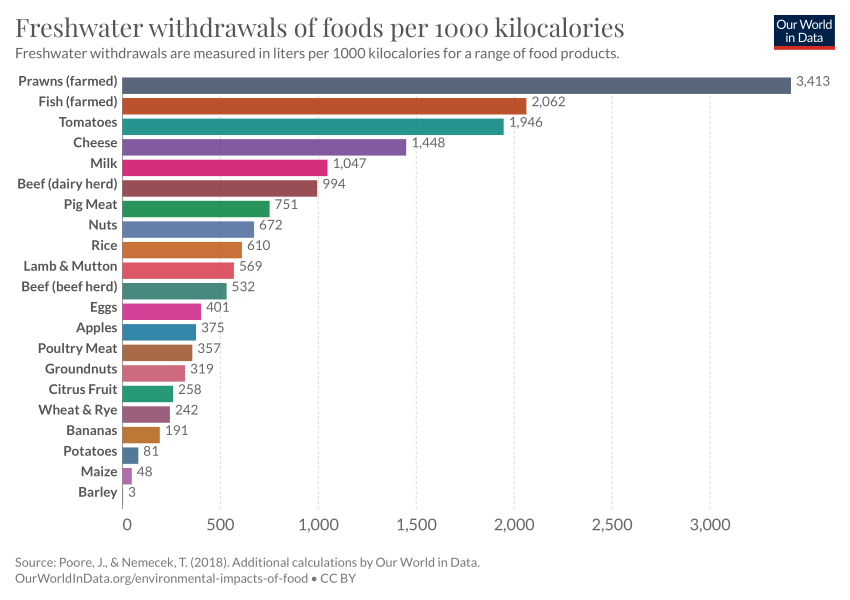
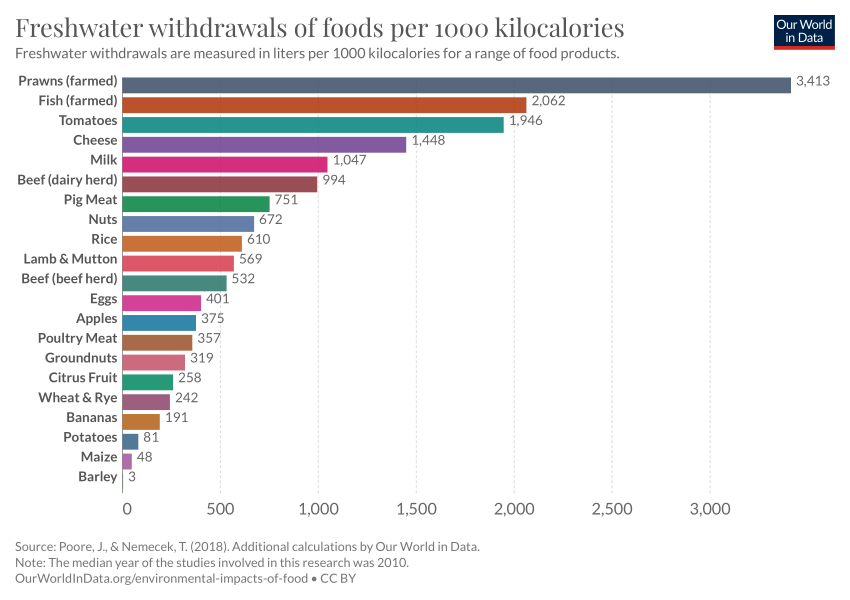
Deploy 2022-09-01T10:26:09.453Z Updating chart scarcity-water-use-kcals

diff --git a/co2-emissions.html b/co2-emissions.html
@@ -1,4 +1,4 @@
-<!doctype html><html><head><meta name="viewport" content="width=device-width, initial-scale=1"/><title>CO2 emissions - Our World in Data</title><meta name="description" content="How much CO2 does the world emit? Which countries emit the most?"/><link rel="canonical" href="https://ourworldindata.org/co2-emissions"/><link rel="alternate" type="application/atom+xml" href="/atom.xml"/><link rel="apple-touch-icon" sizes="180x180" href="/apple-touch-icon.png"/><meta property="fb:app_id" content="1149943818390250"/><meta property="og:url" content="https://ourworldindata.org/co2-emissions"/><meta property="og:title" content="CO2 emissions"/><meta property="og:description" content="How much CO2 does the world emit? Which countries emit the most?"/><meta property="og:image" content="https://ourworldindata.org/uploads/2022/03/Screenshot-2022-03-04-at-16.51.31-768x480.png"/><meta property="og:site_name" content="Our World in Data"/><meta name="twitter:card" content="summary_large_image"/><meta name="twitter:site" content="@OurWorldInData"/><meta name="twitter:creator" content="@OurWorldInData"/><meta name="twitter:title" content="CO2 emissions"/><meta name="twitter:description" content="How much CO2 does the world emit? Which countries emit the most?"/><meta name="twitter:image" content="https://ourworldindata.org/uploads/2022/03/Screenshot-2022-03-04-at-16.51.31-768x480.png"/><link href="https://fonts.googleapis.com/css?family=Lato:300,400,400i,700,700i|Playfair+Display:400,700&amp;display=swap" rel="stylesheet"/><link rel="stylesheet" href="https://ourworldindata.org/assets/commons.css"/><link rel="stylesheet" href="https://ourworldindata.org/assets/owid.css"/><meta name="citation_title" content="CO₂ and Greenhouse Gas Emissions"/><meta name="citation_fulltext_html_url" content="https://ourworldindata.org/co2-and-other-greenhouse-gas-emissions"/><meta name="citation_fulltext_world_readable" content=""/><meta name="citation_publication_date" content="2020/05/11"/><meta name="citation_journal_title" content="Our World in Data"/><meta name="citation_journal_abbrev" content="Our World in Data"/><meta name="citation_author" content="Hannah Ritchie"/><meta name="citation_author" content="Max Roser"/><meta name="citation_author" content="Pablo Rosado"/></head><body class=""><header class="site-header"><div class="wrapper site-navigation-bar"><div class="site-logo"><a href="/">Our World<br/> in Data</a></div><nav class="site-navigation"><div class="topics-button-wrapper"><a href="/#entries" class="topics-button"><div class="label">Articles <br/><strong>by topic</strong></div><div class="icon"><svg width="12" height="6"><path d="M0,0 L12,0 L6,6 Z" fill="currentColor"></path></svg></div></a></div><div><div class="site-primary-navigation"><form class="HeaderSearch" action="/search" method="GET"><input type="search" name="q" placeholder="Search..."/><div class="icon"><svg aria-hidden="true" focusable="false" data-prefix="fas" data-icon="magnifying-glass" class="svg-inline--fa fa-magnifying-glass " role="img" xmlns="http://www.w3.org/2000/svg" viewBox="0 0 512 512"><path fill="currentColor" d="M500.3 443.7l-119.7-119.7c27.22-40.41 40.65-90.9 33.46-144.7C401.8 87.79 326.8 13.32 235.2 1.723C99.01-15.51-15.51 99.01 1.724 235.2c11.6 91.64 86.08 166.7 177.6 178.9c53.8 7.189 104.3-6.236 144.7-33.46l119.7 119.7c15.62 15.62 40.95 15.62 56.57 0C515.9 484.7 515.9 459.3 500.3 443.7zM79.1 208c0-70.58 57.42-128 128-128s128 57.42 128 128c0 70.58-57.42 128-128 128S79.1 278.6 79.1 208z"></path></svg></div></form><ul class="site-primary-links"><li><a href="/blog" data-track-note="header-navigation">Latest</a></li><li><a href="/about" data-track-note="header-navigation">About</a></li><li><a href="/donate" data-track-note="header-navigation">Donate</a></li></ul></div><div class="site-secondary-navigation"><ul class="site-secondary-links"><li><a href="/charts" data-track-note="header-navigation">All charts</a></li><li><a href="https://sdg-tracker.org" data-track-note="header-navigation">Sustainable Development Goals Tracker</a></li></ul></div></div></nav><div class="header-logos-wrapper"><a href="https://www.oxfordmartin.ox.ac.uk/global-development" class="oxford-logo"><img src="https://ourworldindata.org/oms-logo.svg" alt="Oxford Martin School logo"/></a><a href="https://global-change-data-lab.org/" class="gcdl-logo"><img src="https://ourworldindata.org/gcdl-logo.svg" alt="Global Change Data Lab logo"/></a></div><div class="mobile-site-navigation"><button data-track-note="mobile-search-button"><svg aria-hidden="true" focusable="false" data-prefix="fas" data-icon="magnifying-glass" class="svg-inline--fa fa-magnifying-glass " role="img" xmlns="http://www.w3.org/2000/svg" viewBox="0 0 512 512"><path fill="currentColor" d="M500.3 443.7l-119.7-119.7c27.22-40.41 40.65-90.9 33.46-144.7C401.8 87.79 326.8 13.32 235.2 1.723C99.01-15.51-15.51 99.01 1.724 235.2c11.6 91.64 86.08 166.7 177.6 178.9c53.8 7.189 104.3-6.236 144.7-33.46l119.7 119.7c15.62 15.62 40.95 15.62 56.57 0C515.9 484.7 515.9 459.3 500.3 443.7zM79.1 208c0-70.58 57.42-128 128-128s128 57.42 128 128c0 70.58-57.42 128-128 128S79.1 278.6 79.1 208z"></path></svg></button><button data-track-note="mobile-newsletter-button"><svg aria-hidden="true" focusable="false" data-prefix="fas" data-icon="envelope-open-text" class="svg-inline--fa fa-envelope-open-text " role="img" xmlns="http://www.w3.org/2000/svg" viewBox="0 0 512 512"><path fill="currentColor" d="M256 417.1c-16.38 0-32.88-4.1-46.88-15.12L0 250.9v213.1C0 490.5 21.5 512 48 512h416c26.5 0 48-21.5 48-47.1V250.9l-209.1 151.1C288.9 412 272.4 417.1 256 417.1zM493.6 163C484.8 156 476.4 149.5 464 140.1v-44.12c0-26.5-21.5-48-48-48l-77.5 .0016c-3.125-2.25-5.875-4.25-9.125-6.5C312.6 29.13 279.3-.3732 256 .0018C232.8-.3732 199.4 29.13 182.6 41.5c-3.25 2.25-6 4.25-9.125 6.5L96 48c-26.5 0-48 21.5-48 48v44.12C35.63 149.5 27.25 156 18.38 163C6.75 172 0 186 0 200.8v10.62l96 69.37V96h320v184.7l96-69.37V200.8C512 186 505.3 172 493.6 163zM176 255.1h160c8.836 0 16-7.164 16-15.1c0-8.838-7.164-16-16-16h-160c-8.836 0-16 7.162-16 16C160 248.8 167.2 255.1 176 255.1zM176 191.1h160c8.836 0 16-7.164 16-16c0-8.838-7.164-15.1-16-15.1h-160c-8.836 0-16 7.162-16 15.1C160 184.8 167.2 191.1 176 191.1z"></path></svg></button><button data-track-note="mobile-hamburger-button"><svg aria-hidden="true" focusable="false" data-prefix="fas" data-icon="bars" class="svg-inline--fa fa-bars " role="img" xmlns="http://www.w3.org/2000/svg" viewBox="0 0 448 512"><path fill="currentColor" d="M0 96C0 78.33 14.33 64 32 64H416C433.7 64 448 78.33 448 96C448 113.7 433.7 128 416 128H32C14.33 128 0 113.7 0 96zM0 256C0 238.3 14.33 224 32 224H416C433.7 224 448 238.3 448 256C448 273.7 433.7 288 416 288H32C14.33 288 0 273.7 0 256zM416 448H32C14.33 448 0 433.7 0 416C0 398.3 14.33 384 32 384H416C433.7 384 448 398.3 448 416C448 433.7 433.7 448 416 448z"></path></svg></button></div></div></header><div class="alert-banner"><div class="content"><div class="text"><strong>COVID-19 vaccinations, cases, excess mortality, and much more</strong></div><a href="/coronavirus#explore-the-global-situation" data-track-note="covid-banner-click">Explore our COVID-19 data</a></div></div><main><article class="page with-sidebar large-banner"><div class="offset-header"><header class="article-header"><div class="article-titles"><h1 class="entry-title">CO2 emissions</h1><div class="breadcrumb"><a href="/">Home</a><span class="separator"><svg aria-hidden="true" focusable="false" data-prefix="fas" data-icon="angle-right" class="svg-inline--fa fa-angle-right " role="img" xmlns="http://www.w3.org/2000/svg" viewBox="0 0 256 512"><path fill="currentColor" d="M64 448c-8.188 0-16.38-3.125-22.62-9.375c-12.5-12.5-12.5-32.75 0-45.25L178.8 256L41.38 118.6c-12.5-12.5-12.5-32.75 0-45.25s32.75-12.5 45.25 0l160 160c12.5 12.5 12.5 32.75 0 45.25l-160 160C80.38 444.9 72.19 448 64 448z"></path></svg></span><a data-track-note="breadcrumb" href="/co2-and-other-greenhouse-gas-emissions">CO₂ and GHG Emissions</a><span class="separator"><svg aria-hidden="true" focusable="false" data-prefix="fas" data-icon="angle-right" class="svg-inline--fa fa-angle-right " role="img" xmlns="http://www.w3.org/2000/svg" viewBox="0 0 256 512"><path fill="currentColor" d="M64 448c-8.188 0-16.38-3.125-22.62-9.375c-12.5-12.5-12.5-32.75 0-45.25L178.8 256L41.38 118.6c-12.5-12.5-12.5-32.75 0-45.25s32.75-12.5 45.25 0l160 160c12.5 12.5 12.5 32.75 0 45.25l-160 160C80.38 444.9 72.19 448 64 448z"></path></svg></span><span>CO₂ emissions</span></div></div><div class="authors-byline"><a href="/team">by Hannah Ritchie and Max Roser</a></div><div class="tools"><a href="#licence"><svg aria-hidden="true" focusable="false" data-prefix="fab" data-icon="creative-commons" class="svg-inline--fa fa-creative-commons " role="img" xmlns="http://www.w3.org/2000/svg" viewBox="0 0 496 512"><path fill="currentColor" d="M245.8 214.9l-33.22 17.28c-9.43-19.58-25.24-19.93-27.46-19.93-22.13 0-33.22 14.61-33.22 43.84 0 23.57 9.21 43.84 33.22 43.84 14.47 0 24.65-7.09 30.57-21.26l30.55 15.5c-6.17 11.51-25.69 38.98-65.1 38.98-22.6 0-73.96-10.32-73.96-77.05 0-58.69 43-77.06 72.63-77.06 30.72-.01 52.7 11.95 65.99 35.86zm143.1 0l-32.78 17.28c-9.5-19.77-25.72-19.93-27.9-19.93-22.14 0-33.22 14.61-33.22 43.84 0 23.55 9.23 43.84 33.22 43.84 14.45 0 24.65-7.09 30.54-21.26l31 15.5c-2.1 3.75-21.39 38.98-65.09 38.98-22.69 0-73.96-9.87-73.96-77.05 0-58.67 42.97-77.06 72.63-77.06 30.71-.01 52.58 11.95 65.56 35.86zM247.6 8.05C104.7 8.05 0 123.1 0 256c0 138.5 113.6 248 247.6 248 129.9 0 248.4-100.9 248.4-248 0-137.9-106.6-248-248.4-248zm.87 450.8c-112.5 0-203.7-93.04-203.7-202.8 0-105.4 85.43-203.3 203.7-203.3 112.5 0 202.8 89.46 202.8 203.3-.01 121.7-99.68 202.8-202.8 202.8z"></path></svg>Reuse our work freely</a><a href="#citation"><svg aria-hidden="true" focusable="false" data-prefix="fas" data-icon="book" class="svg-inline--fa fa-book " role="img" xmlns="http://www.w3.org/2000/svg" viewBox="0 0 448 512"><path fill="currentColor" d="M448 336v-288C448 21.49 426.5 0 400 0H96C42.98 0 0 42.98 0 96v320c0 53.02 42.98 96 96 96h320c17.67 0 32-14.33 32-31.1c0-11.72-6.607-21.52-16-27.1v-81.36C441.8 362.8 448 350.2 448 336zM143.1 128h192C344.8 128 352 135.2 352 144C352 152.8 344.8 160 336 160H143.1C135.2 160 128 152.8 128 144C128 135.2 135.2 128 143.1 128zM143.1 192h192C344.8 192 352 199.2 352 208C352 216.8 344.8 224 336 224H143.1C135.2 224 128 216.8 128 208C128 199.2 135.2 192 143.1 192zM384 448H96c-17.67 0-32-14.33-32-32c0-17.67 14.33-32 32-32h288V448z"></path></svg>Cite this research</a></div></header></div><div class="offset-subnavigation"><div class="site-subnavigation"><div class="site-subnavigation-scroll"><ul class="site-subnavigation-links"><li class="highlight"><a href="/co2-and-other-greenhouse-gas-emissions" data-track-note="co2-subnav-co2-and-ghg-emissions">CO₂ and GHG Emissions<svg aria-hidden="true" focusable="false" data-prefix="fas" data-icon="chevron-left" class="svg-inline--fa fa-chevron-left " role="img" xmlns="http://www.w3.org/2000/svg" viewBox="0 0 320 512"><path fill="currentColor" d="M224 480c-8.188 0-16.38-3.125-22.62-9.375l-192-192c-12.5-12.5-12.5-32.75 0-45.25l192-192c12.5-12.5 32.75-12.5 45.25 0s12.5 32.75 0 45.25L77.25 256l169.4 169.4c12.5 12.5 12.5 32.75 0 45.25C240.4 476.9 232.2 480 224 480z"></path></svg></a></li><li class=""><a href="/co2-and-other-greenhouse-gas-emissions#co2-and-greenhouse-gas-emissions-country-profiles" data-track-note="co2-subnav-by-country">By country</a></li><li class=""><a href="/explorers/co2" data-track-note="co2-subnav-co2-data-explorer">Data explorer</a></li><li class="current"><a href="/co2-emissions" data-track-note="co2-subnav-co2-emissions">CO₂ emissions</a></li><li class=""><a href="/emissions-by-fuel" data-track-note="co2-subnav-by-fuel">CO₂ by fuel</a></li><li class=""><a href="/greenhouse-gas-emissions" data-track-note="co2-subnav-ghg-emissions">GHG emissions</a></li><li class=""><a href="/emissions-by-sector" data-track-note="co2-subnav-by-sector">By sector</a></li><li class=""><a href="/atmospheric-concentrations" data-track-note="co2-subnav-atm-concentrations">Atmospheric concentrations</a></li><li class=""><a href="/explorers/climate-change" data-track-note="co2-subnav-climate-impacts">Climate impacts</a></li></ul></div></div></div><div class="content-wrapper"><div class="toc-wrapper"><aside class="entry-sidebar"><div class="sticky-sentinel"></div><nav class="entry-toc"><ul><li><a href="#" data-track-note="toc-header">CO2 emissions</a></li><li class="section"><a href="#global-co2-emissions-from-fossil-fuels" data-track-note="toc-link">Global CO2 emissions from fossil fuels</a></li><li class="subsection"><a href="#global-co2-emissions-from-fossil-fuels-global-co2-emissions-from-fossil-fuels" data-track-note="toc-link">Global CO2 emissions from fossil fuels</a></li><li class="subsection"><a href="#global-co2-emissions-from-fossil-fuels-and-land-use-change" data-track-note="toc-link">Global CO2 emissions from fossil fuels and land use change</a></li><li class="subsection"><a href="#co2-emissions-by-region" data-track-note="toc-link">CO2 emissions by region</a></li><li class="section"><a href="#per-capita-co2-emissions" data-track-note="toc-link">Per capita CO2 emissions</a></li><li class="section"><a href="#annual-co2-emissions" data-track-note="toc-link">Annual CO2 emissions</a></li><li class="section"><a href="#annual-change-in-co2-emissions" data-track-note="toc-link">Annual change in CO2 emissions</a></li><li class="section"><a href="#cumulative-co2-emissions" data-track-note="toc-link">Cumulative CO2 emissions</a></li><li class="section"><a href="#consumption-based-trade-adjusted-emissions" data-track-note="toc-link">Consumption-based (trade-adjusted) emissions</a></li><li class="section"><a href="#decoupling-co2-emissions-from-economic-growth" data-track-note="toc-link">Decoupling CO₂ emissions from economic growth</a></li><li class="section"><a href="#global-inequalities-in-co2-emissions" data-track-note="toc-link">Global inequalities in CO2 emissions</a></li><li class="subsection"><a href="#global-inequalities-by-production" data-track-note="toc-link">Global inequalities by production</a></li><li class="subsection"><a href="#global-inequalities-by-consumption" data-track-note="toc-link">Global inequalities by consumption</a></li><li class="section"><a href="#how-do-we-measure-or-estimate-co2-emissions" data-track-note="toc-link">How do we measure or estimate CO2 emissions?</a></li><li class="section"><a href="#endnotes" data-track-note="toc-link">Endnotes</a></li><li class="section"><a href="#licence" data-track-note="toc-link">Licence</a></li><li class="section"><a href="#citation" data-track-note="toc-link">Citation</a></li></ul></nav><div class="toggle-toc"><button data-track-note="page-toggle-toc" aria-label="Open table of contents"><svg aria-hidden="true" focusable="false" data-prefix="fas" data-icon="bars" class="svg-inline--fa fa-bars " role="img" xmlns="http://www.w3.org/2000/svg" viewBox="0 0 448 512"><path fill="currentColor" d="M0 96C0 78.33 14.33 64 32 64H416C433.7 64 448 78.33 448 96C448 113.7 433.7 128 416 128H32C14.33 128 0 113.7 0 96zM0 256C0 238.3 14.33 224 32 224H416C433.7 224 448 238.3 448 256C448 273.7 433.7 288 416 288H32C14.33 288 0 273.7 0 256zM416 448H32C14.33 448 0 433.7 0 416C0 398.3 14.33 384 32 384H416C433.7 384 448 398.3 448 416C448 433.7 433.7 448 416 448z"></path></svg><span class="label">Contents</span></button></div></aside></div><div class="offset-content"><div class="content-and-footnotes"><div class="article-content"><section><div class="wp-block-columns is-style-sticky-right"><div class="wp-block-column"><p>You can&nbsp;<strong><a href="https://github.com/owid/co2-data">download</a></strong>&nbsp;our complete <em>Our World in Data</em> CO<sub>2</sub> and Greenhouse Gas Emissions database.</p><hr class="wp-block-separator"><p>Carbon dioxide emissions are the primary driver of global climate change. It’s widely recognised that to avoid the worst impacts of climate change, the world needs to urgently reduce emissions. But, how this responsibility is shared between regions, countries, and individuals has been an endless point of contention in international discussions. </p><p>This debate arises from the various ways in which emissions are compared: as annual emissions by country; emissions per person; historical contributions; and whether they adjust for traded goods and services. These metrics can tell very different stories. </p><p>We teamed up with the YouTube channel, <em>Kurzgesagt</em>, to produce a video which explored these different metrics in detail: <a href="https://www.youtube.com/watch?v=ipVxxxqwBQw">‘Who is responsible for climate change? – Who needs to fix it?’</a>. All of the data and research featured in this video is contained in this article: below we look in detail at the many ways emissions are broken down.</p><div class="wp-container-631082d375ab7 wp-block-group">    <div class="block-wrapper"><div class="wp-block-owid-prominent-link with-image" data-no-lightbox="true" data-style="is-style-thin" data-title="&nbsp;‘Who is responsible for climate change? – Who needs to fix it?’"><a href="https://www.youtube.com/watch?v=ipVxxxqwBQw"><figure><img width="768" height="433" src="https://ourworldindata.org/uploads/2020/06/CO2-Kurzgesagt-768x433.png" class="attachment-medium_large size-medium_large" alt="Co2 kurzgesagt" loading="lazy" srcset="https://ourworldindata.org/uploads/2020/06/CO2-Kurzgesagt-768x433.png 768w, https://ourworldindata.org/uploads/2020/06/CO2-Kurzgesagt-400x225.png 400w, https://ourworldindata.org/uploads/2020/06/CO2-Kurzgesagt-800x451.png 800w, https://ourworldindata.org/uploads/2020/06/CO2-Kurzgesagt-150x84.png 150w, https://ourworldindata.org/uploads/2020/06/CO2-Kurzgesagt.png 1422w" sizes="(max-width: 768px) 100vw, 768px" data-high-res-src="https://ourworldindata.org/uploads/2020/06/CO2-Kurzgesagt.png"></figure><div class="content-wrapper"><div class="content">
+<!doctype html><html><head><meta name="viewport" content="width=device-width, initial-scale=1"/><title>CO2 emissions - Our World in Data</title><meta name="description" content="How much CO2 does the world emit? Which countries emit the most?"/><link rel="canonical" href="https://ourworldindata.org/co2-emissions"/><link rel="alternate" type="application/atom+xml" href="/atom.xml"/><link rel="apple-touch-icon" sizes="180x180" href="/apple-touch-icon.png"/><meta property="fb:app_id" content="1149943818390250"/><meta property="og:url" content="https://ourworldindata.org/co2-emissions"/><meta property="og:title" content="CO2 emissions"/><meta property="og:description" content="How much CO2 does the world emit? Which countries emit the most?"/><meta property="og:image" content="https://ourworldindata.org/uploads/2022/03/Screenshot-2022-03-04-at-16.51.31-768x480.png"/><meta property="og:site_name" content="Our World in Data"/><meta name="twitter:card" content="summary_large_image"/><meta name="twitter:site" content="@OurWorldInData"/><meta name="twitter:creator" content="@OurWorldInData"/><meta name="twitter:title" content="CO2 emissions"/><meta name="twitter:description" content="How much CO2 does the world emit? Which countries emit the most?"/><meta name="twitter:image" content="https://ourworldindata.org/uploads/2022/03/Screenshot-2022-03-04-at-16.51.31-768x480.png"/><link href="https://fonts.googleapis.com/css?family=Lato:300,400,400i,700,700i|Playfair+Display:400,700&amp;display=swap" rel="stylesheet"/><link rel="stylesheet" href="https://ourworldindata.org/assets/commons.css"/><link rel="stylesheet" href="https://ourworldindata.org/assets/owid.css"/><meta name="citation_title" content="CO₂ and Greenhouse Gas Emissions"/><meta name="citation_fulltext_html_url" content="https://ourworldindata.org/co2-and-other-greenhouse-gas-emissions"/><meta name="citation_fulltext_world_readable" content=""/><meta name="citation_publication_date" content="2020/05/11"/><meta name="citation_journal_title" content="Our World in Data"/><meta name="citation_journal_abbrev" content="Our World in Data"/><meta name="citation_author" content="Hannah Ritchie"/><meta name="citation_author" content="Max Roser"/><meta name="citation_author" content="Pablo Rosado"/></head><body class=""><header class="site-header"><div class="wrapper site-navigation-bar"><div class="site-logo"><a href="/">Our World<br/> in Data</a></div><nav class="site-navigation"><div class="topics-button-wrapper"><a href="/#entries" class="topics-button"><div class="label">Articles <br/><strong>by topic</strong></div><div class="icon"><svg width="12" height="6"><path d="M0,0 L12,0 L6,6 Z" fill="currentColor"></path></svg></div></a></div><div><div class="site-primary-navigation"><form class="HeaderSearch" action="/search" method="GET"><input type="search" name="q" placeholder="Search..."/><div class="icon"><svg aria-hidden="true" focusable="false" data-prefix="fas" data-icon="magnifying-glass" class="svg-inline--fa fa-magnifying-glass " role="img" xmlns="http://www.w3.org/2000/svg" viewBox="0 0 512 512"><path fill="currentColor" d="M500.3 443.7l-119.7-119.7c27.22-40.41 40.65-90.9 33.46-144.7C401.8 87.79 326.8 13.32 235.2 1.723C99.01-15.51-15.51 99.01 1.724 235.2c11.6 91.64 86.08 166.7 177.6 178.9c53.8 7.189 104.3-6.236 144.7-33.46l119.7 119.7c15.62 15.62 40.95 15.62 56.57 0C515.9 484.7 515.9 459.3 500.3 443.7zM79.1 208c0-70.58 57.42-128 128-128s128 57.42 128 128c0 70.58-57.42 128-128 128S79.1 278.6 79.1 208z"></path></svg></div></form><ul class="site-primary-links"><li><a href="/blog" data-track-note="header-navigation">Latest</a></li><li><a href="/about" data-track-note="header-navigation">About</a></li><li><a href="/donate" data-track-note="header-navigation">Donate</a></li></ul></div><div class="site-secondary-navigation"><ul class="site-secondary-links"><li><a href="/charts" data-track-note="header-navigation">All charts</a></li><li><a href="https://sdg-tracker.org" data-track-note="header-navigation">Sustainable Development Goals Tracker</a></li></ul></div></div></nav><div class="header-logos-wrapper"><a href="https://www.oxfordmartin.ox.ac.uk/global-development" class="oxford-logo"><img src="https://ourworldindata.org/oms-logo.svg" alt="Oxford Martin School logo"/></a><a href="https://global-change-data-lab.org/" class="gcdl-logo"><img src="https://ourworldindata.org/gcdl-logo.svg" alt="Global Change Data Lab logo"/></a></div><div class="mobile-site-navigation"><button data-track-note="mobile-search-button"><svg aria-hidden="true" focusable="false" data-prefix="fas" data-icon="magnifying-glass" class="svg-inline--fa fa-magnifying-glass " role="img" xmlns="http://www.w3.org/2000/svg" viewBox="0 0 512 512"><path fill="currentColor" d="M500.3 443.7l-119.7-119.7c27.22-40.41 40.65-90.9 33.46-144.7C401.8 87.79 326.8 13.32 235.2 1.723C99.01-15.51-15.51 99.01 1.724 235.2c11.6 91.64 86.08 166.7 177.6 178.9c53.8 7.189 104.3-6.236 144.7-33.46l119.7 119.7c15.62 15.62 40.95 15.62 56.57 0C515.9 484.7 515.9 459.3 500.3 443.7zM79.1 208c0-70.58 57.42-128 128-128s128 57.42 128 128c0 70.58-57.42 128-128 128S79.1 278.6 79.1 208z"></path></svg></button><button data-track-note="mobile-newsletter-button"><svg aria-hidden="true" focusable="false" data-prefix="fas" data-icon="envelope-open-text" class="svg-inline--fa fa-envelope-open-text " role="img" xmlns="http://www.w3.org/2000/svg" viewBox="0 0 512 512"><path fill="currentColor" d="M256 417.1c-16.38 0-32.88-4.1-46.88-15.12L0 250.9v213.1C0 490.5 21.5 512 48 512h416c26.5 0 48-21.5 48-47.1V250.9l-209.1 151.1C288.9 412 272.4 417.1 256 417.1zM493.6 163C484.8 156 476.4 149.5 464 140.1v-44.12c0-26.5-21.5-48-48-48l-77.5 .0016c-3.125-2.25-5.875-4.25-9.125-6.5C312.6 29.13 279.3-.3732 256 .0018C232.8-.3732 199.4 29.13 182.6 41.5c-3.25 2.25-6 4.25-9.125 6.5L96 48c-26.5 0-48 21.5-48 48v44.12C35.63 149.5 27.25 156 18.38 163C6.75 172 0 186 0 200.8v10.62l96 69.37V96h320v184.7l96-69.37V200.8C512 186 505.3 172 493.6 163zM176 255.1h160c8.836 0 16-7.164 16-15.1c0-8.838-7.164-16-16-16h-160c-8.836 0-16 7.162-16 16C160 248.8 167.2 255.1 176 255.1zM176 191.1h160c8.836 0 16-7.164 16-16c0-8.838-7.164-15.1-16-15.1h-160c-8.836 0-16 7.162-16 15.1C160 184.8 167.2 191.1 176 191.1z"></path></svg></button><button data-track-note="mobile-hamburger-button"><svg aria-hidden="true" focusable="false" data-prefix="fas" data-icon="bars" class="svg-inline--fa fa-bars " role="img" xmlns="http://www.w3.org/2000/svg" viewBox="0 0 448 512"><path fill="currentColor" d="M0 96C0 78.33 14.33 64 32 64H416C433.7 64 448 78.33 448 96C448 113.7 433.7 128 416 128H32C14.33 128 0 113.7 0 96zM0 256C0 238.3 14.33 224 32 224H416C433.7 224 448 238.3 448 256C448 273.7 433.7 288 416 288H32C14.33 288 0 273.7 0 256zM416 448H32C14.33 448 0 433.7 0 416C0 398.3 14.33 384 32 384H416C433.7 384 448 398.3 448 416C448 433.7 433.7 448 416 448z"></path></svg></button></div></div></header><div class="alert-banner"><div class="content"><div class="text"><strong>COVID-19 vaccinations, cases, excess mortality, and much more</strong></div><a href="/coronavirus#explore-the-global-situation" data-track-note="covid-banner-click">Explore our COVID-19 data</a></div></div><main><article class="page with-sidebar large-banner"><div class="offset-header"><header class="article-header"><div class="article-titles"><h1 class="entry-title">CO2 emissions</h1><div class="breadcrumb"><a href="/">Home</a><span class="separator"><svg aria-hidden="true" focusable="false" data-prefix="fas" data-icon="angle-right" class="svg-inline--fa fa-angle-right " role="img" xmlns="http://www.w3.org/2000/svg" viewBox="0 0 256 512"><path fill="currentColor" d="M64 448c-8.188 0-16.38-3.125-22.62-9.375c-12.5-12.5-12.5-32.75 0-45.25L178.8 256L41.38 118.6c-12.5-12.5-12.5-32.75 0-45.25s32.75-12.5 45.25 0l160 160c12.5 12.5 12.5 32.75 0 45.25l-160 160C80.38 444.9 72.19 448 64 448z"></path></svg></span><a data-track-note="breadcrumb" href="/co2-and-other-greenhouse-gas-emissions">CO₂ and GHG Emissions</a><span class="separator"><svg aria-hidden="true" focusable="false" data-prefix="fas" data-icon="angle-right" class="svg-inline--fa fa-angle-right " role="img" xmlns="http://www.w3.org/2000/svg" viewBox="0 0 256 512"><path fill="currentColor" d="M64 448c-8.188 0-16.38-3.125-22.62-9.375c-12.5-12.5-12.5-32.75 0-45.25L178.8 256L41.38 118.6c-12.5-12.5-12.5-32.75 0-45.25s32.75-12.5 45.25 0l160 160c12.5 12.5 12.5 32.75 0 45.25l-160 160C80.38 444.9 72.19 448 64 448z"></path></svg></span><span>CO₂ emissions</span></div></div><div class="authors-byline"><a href="/team">by Hannah Ritchie and Max Roser</a></div><div class="tools"><a href="#licence"><svg aria-hidden="true" focusable="false" data-prefix="fab" data-icon="creative-commons" class="svg-inline--fa fa-creative-commons " role="img" xmlns="http://www.w3.org/2000/svg" viewBox="0 0 496 512"><path fill="currentColor" d="M245.8 214.9l-33.22 17.28c-9.43-19.58-25.24-19.93-27.46-19.93-22.13 0-33.22 14.61-33.22 43.84 0 23.57 9.21 43.84 33.22 43.84 14.47 0 24.65-7.09 30.57-21.26l30.55 15.5c-6.17 11.51-25.69 38.98-65.1 38.98-22.6 0-73.96-10.32-73.96-77.05 0-58.69 43-77.06 72.63-77.06 30.72-.01 52.7 11.95 65.99 35.86zm143.1 0l-32.78 17.28c-9.5-19.77-25.72-19.93-27.9-19.93-22.14 0-33.22 14.61-33.22 43.84 0 23.55 9.23 43.84 33.22 43.84 14.45 0 24.65-7.09 30.54-21.26l31 15.5c-2.1 3.75-21.39 38.98-65.09 38.98-22.69 0-73.96-9.87-73.96-77.05 0-58.67 42.97-77.06 72.63-77.06 30.71-.01 52.58 11.95 65.56 35.86zM247.6 8.05C104.7 8.05 0 123.1 0 256c0 138.5 113.6 248 247.6 248 129.9 0 248.4-100.9 248.4-248 0-137.9-106.6-248-248.4-248zm.87 450.8c-112.5 0-203.7-93.04-203.7-202.8 0-105.4 85.43-203.3 203.7-203.3 112.5 0 202.8 89.46 202.8 203.3-.01 121.7-99.68 202.8-202.8 202.8z"></path></svg>Reuse our work freely</a><a href="#citation"><svg aria-hidden="true" focusable="false" data-prefix="fas" data-icon="book" class="svg-inline--fa fa-book " role="img" xmlns="http://www.w3.org/2000/svg" viewBox="0 0 448 512"><path fill="currentColor" d="M448 336v-288C448 21.49 426.5 0 400 0H96C42.98 0 0 42.98 0 96v320c0 53.02 42.98 96 96 96h320c17.67 0 32-14.33 32-31.1c0-11.72-6.607-21.52-16-27.1v-81.36C441.8 362.8 448 350.2 448 336zM143.1 128h192C344.8 128 352 135.2 352 144C352 152.8 344.8 160 336 160H143.1C135.2 160 128 152.8 128 144C128 135.2 135.2 128 143.1 128zM143.1 192h192C344.8 192 352 199.2 352 208C352 216.8 344.8 224 336 224H143.1C135.2 224 128 216.8 128 208C128 199.2 135.2 192 143.1 192zM384 448H96c-17.67 0-32-14.33-32-32c0-17.67 14.33-32 32-32h288V448z"></path></svg>Cite this research</a></div></header></div><div class="offset-subnavigation"><div class="site-subnavigation"><div class="site-subnavigation-scroll"><ul class="site-subnavigation-links"><li class="highlight"><a href="/co2-and-other-greenhouse-gas-emissions" data-track-note="co2-subnav-co2-and-ghg-emissions">CO₂ and GHG Emissions<svg aria-hidden="true" focusable="false" data-prefix="fas" data-icon="chevron-left" class="svg-inline--fa fa-chevron-left " role="img" xmlns="http://www.w3.org/2000/svg" viewBox="0 0 320 512"><path fill="currentColor" d="M224 480c-8.188 0-16.38-3.125-22.62-9.375l-192-192c-12.5-12.5-12.5-32.75 0-45.25l192-192c12.5-12.5 32.75-12.5 45.25 0s12.5 32.75 0 45.25L77.25 256l169.4 169.4c12.5 12.5 12.5 32.75 0 45.25C240.4 476.9 232.2 480 224 480z"></path></svg></a></li><li class=""><a href="/co2-and-other-greenhouse-gas-emissions#co2-and-greenhouse-gas-emissions-country-profiles" data-track-note="co2-subnav-by-country">By country</a></li><li class=""><a href="/explorers/co2" data-track-note="co2-subnav-co2-data-explorer">Data explorer</a></li><li class="current"><a href="/co2-emissions" data-track-note="co2-subnav-co2-emissions">CO₂ emissions</a></li><li class=""><a href="/emissions-by-fuel" data-track-note="co2-subnav-by-fuel">CO₂ by fuel</a></li><li class=""><a href="/greenhouse-gas-emissions" data-track-note="co2-subnav-ghg-emissions">GHG emissions</a></li><li class=""><a href="/emissions-by-sector" data-track-note="co2-subnav-by-sector">By sector</a></li><li class=""><a href="/atmospheric-concentrations" data-track-note="co2-subnav-atm-concentrations">Atmospheric concentrations</a></li><li class=""><a href="/explorers/climate-change" data-track-note="co2-subnav-climate-impacts">Climate impacts</a></li></ul></div></div></div><div class="content-wrapper"><div class="toc-wrapper"><aside class="entry-sidebar"><div class="sticky-sentinel"></div><nav class="entry-toc"><ul><li><a href="#" data-track-note="toc-header">CO2 emissions</a></li><li class="section"><a href="#global-co2-emissions-from-fossil-fuels" data-track-note="toc-link">Global CO2 emissions from fossil fuels</a></li><li class="subsection"><a href="#global-co2-emissions-from-fossil-fuels-global-co2-emissions-from-fossil-fuels" data-track-note="toc-link">Global CO2 emissions from fossil fuels</a></li><li class="subsection"><a href="#global-co2-emissions-from-fossil-fuels-and-land-use-change" data-track-note="toc-link">Global CO2 emissions from fossil fuels and land use change</a></li><li class="subsection"><a href="#co2-emissions-by-region" data-track-note="toc-link">CO2 emissions by region</a></li><li class="section"><a href="#per-capita-co2-emissions" data-track-note="toc-link">Per capita CO2 emissions</a></li><li class="section"><a href="#annual-co2-emissions" data-track-note="toc-link">Annual CO2 emissions</a></li><li class="section"><a href="#annual-change-in-co2-emissions" data-track-note="toc-link">Annual change in CO2 emissions</a></li><li class="section"><a href="#cumulative-co2-emissions" data-track-note="toc-link">Cumulative CO2 emissions</a></li><li class="section"><a href="#consumption-based-trade-adjusted-emissions" data-track-note="toc-link">Consumption-based (trade-adjusted) emissions</a></li><li class="section"><a href="#decoupling-co2-emissions-from-economic-growth" data-track-note="toc-link">Decoupling CO₂ emissions from economic growth</a></li><li class="section"><a href="#global-inequalities-in-co2-emissions" data-track-note="toc-link">Global inequalities in CO2 emissions</a></li><li class="subsection"><a href="#global-inequalities-by-production" data-track-note="toc-link">Global inequalities by production</a></li><li class="subsection"><a href="#global-inequalities-by-consumption" data-track-note="toc-link">Global inequalities by consumption</a></li><li class="section"><a href="#how-do-we-measure-or-estimate-co2-emissions" data-track-note="toc-link">How do we measure or estimate CO2 emissions?</a></li><li class="section"><a href="#endnotes" data-track-note="toc-link">Endnotes</a></li><li class="section"><a href="#licence" data-track-note="toc-link">Licence</a></li><li class="section"><a href="#citation" data-track-note="toc-link">Citation</a></li></ul></nav><div class="toggle-toc"><button data-track-note="page-toggle-toc" aria-label="Open table of contents"><svg aria-hidden="true" focusable="false" data-prefix="fas" data-icon="bars" class="svg-inline--fa fa-bars " role="img" xmlns="http://www.w3.org/2000/svg" viewBox="0 0 448 512"><path fill="currentColor" d="M0 96C0 78.33 14.33 64 32 64H416C433.7 64 448 78.33 448 96C448 113.7 433.7 128 416 128H32C14.33 128 0 113.7 0 96zM0 256C0 238.3 14.33 224 32 224H416C433.7 224 448 238.3 448 256C448 273.7 433.7 288 416 288H32C14.33 288 0 273.7 0 256zM416 448H32C14.33 448 0 433.7 0 416C0 398.3 14.33 384 32 384H416C433.7 384 448 398.3 448 416C448 433.7 433.7 448 416 448z"></path></svg><span class="label">Contents</span></button></div></aside></div><div class="offset-content"><div class="content-and-footnotes"><div class="article-content"><section><div class="wp-block-columns is-style-sticky-right"><div class="wp-block-column"><p>You can&nbsp;<strong><a href="https://github.com/owid/co2-data">download</a></strong>&nbsp;our complete <em>Our World in Data</em> CO<sub>2</sub> and Greenhouse Gas Emissions database.</p><hr class="wp-block-separator"><p>Carbon dioxide emissions are the primary driver of global climate change. It’s widely recognised that to avoid the worst impacts of climate change, the world needs to urgently reduce emissions. But, how this responsibility is shared between regions, countries, and individuals has been an endless point of contention in international discussions. </p><p>This debate arises from the various ways in which emissions are compared: as annual emissions by country; emissions per person; historical contributions; and whether they adjust for traded goods and services. These metrics can tell very different stories. </p><p>We teamed up with the YouTube channel, <em>Kurzgesagt</em>, to produce a video which explored these different metrics in detail: <a href="https://www.youtube.com/watch?v=ipVxxxqwBQw">‘Who is responsible for climate change? – Who needs to fix it?’</a>. All of the data and research featured in this video is contained in this article: below we look in detail at the many ways emissions are broken down.</p><div class="wp-container-631088e2b4d77 wp-block-group">    <div class="block-wrapper"><div class="wp-block-owid-prominent-link with-image" data-no-lightbox="true" data-style="is-style-thin" data-title="&nbsp;‘Who is responsible for climate change? – Who needs to fix it?’"><a href="https://www.youtube.com/watch?v=ipVxxxqwBQw"><figure><img width="768" height="433" src="https://ourworldindata.org/uploads/2020/06/CO2-Kurzgesagt-768x433.png" class="attachment-medium_large size-medium_large" alt="Co2 kurzgesagt" loading="lazy" srcset="https://ourworldindata.org/uploads/2020/06/CO2-Kurzgesagt-768x433.png 768w, https://ourworldindata.org/uploads/2020/06/CO2-Kurzgesagt-400x225.png 400w, https://ourworldindata.org/uploads/2020/06/CO2-Kurzgesagt-800x451.png 800w, https://ourworldindata.org/uploads/2020/06/CO2-Kurzgesagt-150x84.png 150w, https://ourworldindata.org/uploads/2020/06/CO2-Kurzgesagt.png 1422w" sizes="(max-width: 768px) 100vw, 768px" data-high-res-src="https://ourworldindata.org/uploads/2020/06/CO2-Kurzgesagt.png"></figure><div class="content-wrapper"><div class="content">
 
 <p>We teamed up with YouTube channel <em>Kurzgesagt</em> to make a video on comparisons of CO<sub>2</sub> emissions.</p>
 

diff --git a/energy-archive.html b/energy-archive.html
@@ -200,7 +200,7 @@
 
 
 
-<div class="wp-container-631082d1e4cd8 wp-block-group"><div class="wp-block-group__inner-container">
+<div class="wp-container-631088e149c41 wp-block-group"><div class="wp-block-group__inner-container">
 <ul class="covid-country-tiles"><li><a href="https://ourworldindata.org/energy/country/united-states?country=~USA">United States</a></li><li><a href="https://ourworldindata.org/energy/country/united-kingdom?country=~GBR">United Kingdom</a></li><li><a href="https://ourworldindata.org/energy/country/china?country=~CHN">China</a></li><li><a href="https://ourworldindata.org/energy/country/india?country=~IND">India</a></li><li><a href="https://ourworldindata.org/energy/country/brazil?country=~BRA">Brazil</a></li><li><a href="https://ourworldindata.org/energy/country/south-africa?country=~ZAF">South Africa</a></li><li><a href="https://ourworldindata.org/energy/country/germany?country=~DEU">Germany</a></li><li><a href="https://ourworldindata.org/energy/country/spain?country=~ESP">Spain</a></li><li><a href="https://ourworldindata.org/energy/country/france?country=~FRA">France</a></li><li><a href="https://ourworldindata.org/energy/country/canada?country=~CAN">Canada</a></li><li><a href="https://ourworldindata.org/energy/country/australia?country=~AUS">Australia</a></li><li><a href="https://ourworldindata.org/energy/country/sweden?country=~SWE">Sweden</a></li></ul>
 </div></div>
 </div>

diff --git a/environmental-impacts-of-food.html b/environmental-impacts-of-food.html
@@ -857,7 +857,7 @@
 
                 <figure data-grapher-src="https://ourworldindata.org/grapher/scarcity-water-use-kcals" class="grapherPreview">
                     <a href="https://ourworldindata.org/grapher/scarcity-water-use-kcals" target="_blank">
-                        <div><img src="https://ourworldindata.org/exports/scarcity-water-use-kcals_v8_850x600.svg" width="850" height="600" loading="lazy" data-no-lightbox="" alt="Scarcity water use kcals v8 850x600"></div>
+                        <div><img src="https://ourworldindata.org/exports/scarcity-water-use-kcals_v9_850x600.svg" width="850" height="600" loading="lazy" data-no-lightbox="" alt="Scarcity water use kcals v9 850x600"></div>
                         <div class="interactionNotice">
                             <span class="icon"><svg aria-hidden="true" focusable="false" data-prefix="fas" data-icon="hand-pointer" class="svg-inline--fa fa-hand-pointer fa-w-14" role="img" xmlns="http://www.w3.org/2000/svg" viewBox="0 0 448 617">
     <path fill="currentColor" d="M448,344.59v96a40.36,40.36,0,0,1-1.06,9.16l-32,136A40,40,0,0,1,376,616.59H168a40,40,0,0,1-32.35-16.47l-128-176a40,40,0,0,1,64.7-47.06L104,420.58v-276a40,40,0,0,1,80,0v200h8v-40a40,40,0,1,1,80,0v40h8v-24a40,40,0,1,1,80,0v24h8a40,40,0,1,1,80,0Zm-256,80h-8v96h8Zm88,0h-8v96h8Zm88,0h-8v96h8Z" transform="translate(0 -0.41)"></path>

diff --git a/explorers/food-footprints.html b/explorers/food-footprints.html
@@ -977,11 +977,12 @@ const grapherConfigs =
   {
     "type": "DiscreteBar",
     "id": 3950,
-    "version": 8,
+    "version": 9,
     "slug": "freshwater-withdrawals-per-1000kcal",
     "title": "Freshwater withdrawals of foods per 1000 kilocalories",
     "subtitle": "Freshwater withdrawals are measured in liters per 1000 kilocalories for a range of food products.",
     "sourceDesc": "Poore, J., & Nemecek, T. (2018). Additional calculations by Our World in Data.",
+    "note": "The median year of the studies involved in this research was 2010.",
     "hideTitleAnnotation": true,
     "minTime": 2018,
     "maxTime": 2018,
@@ -1070,11 +1071,12 @@ const grapherConfigs =
   {
     "type": "DiscreteBar",
     "id": 3951,
-    "version": 8,
+    "version": 9,
     "slug": "scarcity-water-use-kcals",
     "title": "Scarcity-weighted water use of foods per 1000 kilocalories",
     "subtitle": "Scarcity-weighted water use represents freshwater use weighted by local water scarcity. This is measured in liters per 1000 kilocalories.",
     "sourceDesc": "Poore, J., & Nemecek, T. (2018). Additional calculations by Our World in Data.",
+    "note": "The median year of the studies involved in this research was 2010.",
     "hideTitleAnnotation": true,
     "minTime": 2018,
     "maxTime": 2018,

diff --git a/co2-and-other-greenhouse-gas-emissions.html b/co2-and-other-greenhouse-gas-emissions.html
@@ -22,7 +22,7 @@
 
 
 
-<div class="wp-container-631082d3881cf wp-block-group">
+<div class="wp-container-631088e2c73d0 wp-block-group">
 <ul class="covid-country-tiles"><li><a href="https://ourworldindata.org/co2/country/united-states?country=~USA">United States</a></li><li><a href="https://ourworldindata.org/co2/country/united-kingdom?country=~GBR">United Kingdom</a></li><li><a href="https://ourworldindata.org/co2/country/china?country=~CHN">China</a></li><li><a href="https://ourworldindata.org/co2/country/india?country=~IND">India</a></li><li><a href="https://ourworldindata.org/co2/country/brazil?country=~BRA">Brazil</a></li><li><a href="https://ourworldindata.org/co2/country/south-africa?country=~ZAF">South Africa</a></li><li><a href="https://ourworldindata.org/co2/country/germany?country=~DEU">Germany</a></li><li><a href="https://ourworldindata.org/co2/country/spain?country=~ESP">Spain</a></li><li><a href="https://ourworldindata.org/co2/country/france?country=~FRA">France</a></li><li><a href="https://ourworldindata.org/co2/country/canada?country=~CAN">Canada</a></li><li><a href="https://ourworldindata.org/co2/country/australia?country=~AUS">Australia</a></li><li><a href="https://ourworldindata.org/co2/country/sweden?country=~SWE">Sweden</a></li></ul>
 </div>
 </div>

diff --git a/grapher/scarcity-water-use-kcals.html b/grapher/scarcity-water-use-kcals.html
@@ -11,17 +11,16 @@
   },
   "data": {
     "availableEntities": [
-      "Brassicas",
+      "Berries & Grapes",
       "Oatmeal",
       "Beet Sugar",
       "Groundnuts",
-      "Tofu (soybeans)",
       "Sunflower Oil",
       "Rapeseed Oil",
       "Onions & Leeks",
       "Root Vegetables",
+      "Brassicas",
       "Barley",
-      "Berries & Grapes",
       "Dark Chocolate",
       "Beef (beef herd)",
       "Beef (dairy herd)",
@@ -29,6 +28,7 @@
       "Poultry Meat",
       "Fish (farmed)",
       "Prawns (farmed)",
+      "Tofu",
       "Palm Oil",
       "Citrus Fruit",
       "Eggs",
@@ -48,6 +48,7 @@
       "Wheat & Rye"
     ]
   },
+  "note": "The median year of the studies involved in this research was 2010.",
   "slug": "scarcity-water-use-kcals",
   "type": "DiscreteBar",
   "title": "Scarcity-weighted water use of foods per 1000 kilocalories",
@@ -56,7 +57,7 @@
   },
   "maxTime": 2018,
   "minTime": 2018,
-  "version": 8,
+  "version": 9,
   "subtitle": "Scarcity-weighted water use represents freshwater use weighted by local water scarcity. This is measured in liters per 1000 kilocalories.",
   "originUrl": "https://ourworldindata.org/environmental-impacts-of-food",
   "dimensions": [

diff --git a/grapher/freshwater-withdrawals-per-1000kcal.html b/grapher/freshwater-withdrawals-per-1000kcal.html
@@ -11,17 +11,16 @@
   },
   "data": {
     "availableEntities": [
-      "Brassicas",
+      "Berries & Grapes",
       "Oatmeal",
       "Beet Sugar",
       "Groundnuts",
-      "Tofu (soybeans)",
       "Sunflower Oil",
       "Rapeseed Oil",
       "Onions & Leeks",
       "Root Vegetables",
+      "Brassicas",
       "Barley",
-      "Berries & Grapes",
       "Dark Chocolate",
       "Beef (beef herd)",
       "Beef (dairy herd)",
@@ -29,6 +28,7 @@
       "Poultry Meat",
       "Fish (farmed)",
       "Prawns (farmed)",
+      "Tofu",
       "Palm Oil",
       "Citrus Fruit",
       "Eggs",
@@ -48,6 +48,7 @@
       "Wheat & Rye"
     ]
   },
+  "note": "The median year of the studies involved in this research was 2010.",
   "slug": "freshwater-withdrawals-per-1000kcal",
   "type": "DiscreteBar",
   "title": "Freshwater withdrawals of foods per 1000 kilocalories",
@@ -56,7 +57,7 @@
   },
   "maxTime": 2018,
   "minTime": 2018,
-  "version": 8,
+  "version": 9,
   "subtitle": "Freshwater withdrawals are measured in liters per 1000 kilocalories for a range of food products.",
   "originUrl": "https://ourworldindata.org/environmental-impacts-of-food",
   "colorScale": {

diff --git a/grapher/share-food-miles-by-method.html b/grapher/share-food-miles-by-method.html
@@ -17,6 +17,7 @@
       "Air"
     ]
   },
+  "note": "The median year of the studies involved in this research was 2010.",
   "slug": "share-food-miles-by-method",
   "type": "DiscreteBar",
   "title": "Share of global food miles by transport method",
@@ -25,7 +26,7 @@
   },
   "maxTime": 2010,
   "minTime": 2010,
-  "version": 2,
+  "version": 3,
   "subtitle": "Food miles are measured in tonne-kilometers, which is a unit of measure of freight transport which represents the transport of one tonne of goods over a distance of one kilometre. Shown is each transport method's share of global food miles.",
   "dimensions": [
     {

diff --git a/democracy.html b/democracy.html
@@ -1558,7 +1558,7 @@ Justifies democracy characteristics</td>
 
 
 
-<div class="wp-container-631082d7153e3 wp-block-group">
+<div class="wp-container-631088e6628ac wp-block-group">
 <ul><li><strong>full democracy</strong>: comprehensive extent of democracy, few weaknesses</li><li><strong>flawed democracy</strong>: some weaknesses in democratic institutions and culture</li><li><strong>hybrid regime</strong>: serious weaknesses in democratic institutions and culture</li><li><strong>authoritarian regime</strong>: few democratic institutions and little democratic culture</li></ul>
 </div>
 </div>

diff --git a/democracies-measurement.html b/democracies-measurement.html
@@ -531,7 +531,7 @@ Justifies democracy characteristics</td>
 
 
 
-<div class="wp-container-631082cbe1ef4 wp-block-group">
+<div class="wp-container-631088db34256 wp-block-group">
 <ul><li><strong>full democracy</strong>: comprehensive extent of democracy, few weaknesses</li><li><strong>flawed democracy</strong>: some weaknesses in democratic institutions and culture</li><li><strong>hybrid regime</strong>: serious weaknesses in democratic institutions and culture</li><li><strong>authoritarian regime</strong>: few democratic institutions and little democratic culture</li></ul>
 </div>
 </div>
